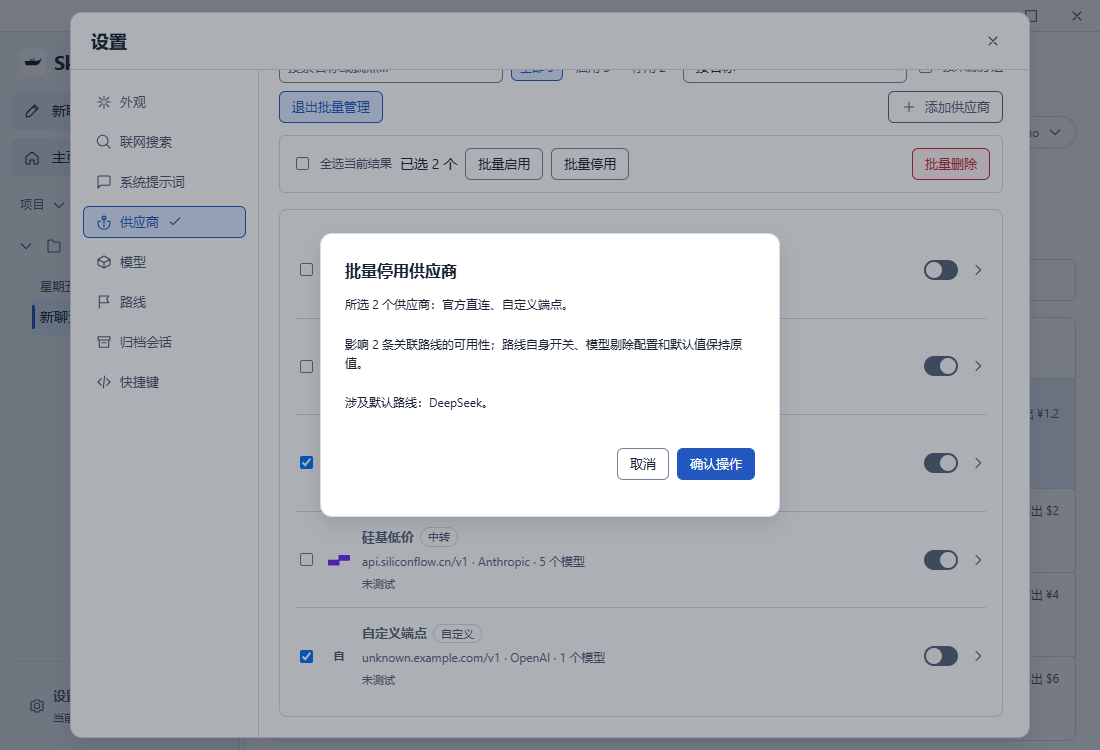
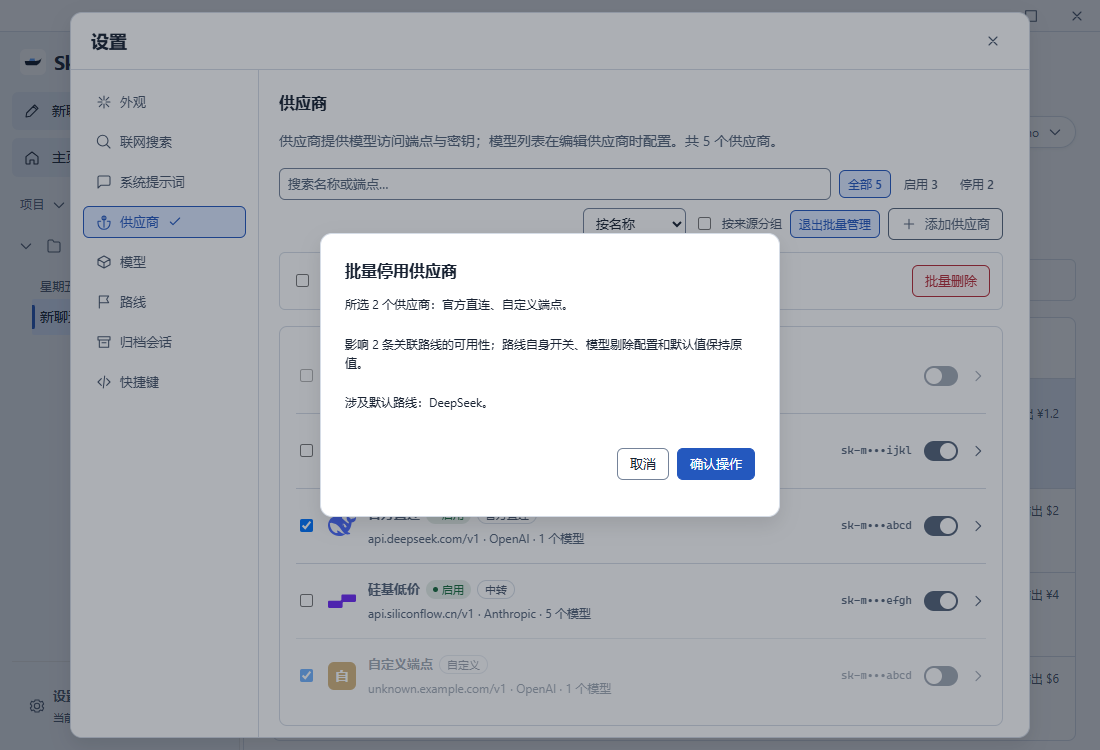
调整样式

diff --git a/src/index.css b/src/index.css
@@ -437,10 +437,11 @@ details[open] > summary .disclosure { transform: rotate(90deg); }
 .resize-separator:hover::after, .resize-separator:focus-visible::after, .resize-separator.dragging::after { left: 2px; width: 3px; background: var(--accent); }
 .resize-separator:focus-visible { outline: none; }
 .archive-sessions { display: flex; flex-direction: column; min-height: 0; height: 100%; }
-.archive-search { display: flex; align-items: center; gap: 8px; flex: none; margin: 0 0 var(--space-3); padding: 7px 10px; border: 1px solid var(--border); border-radius: var(--radius-sm); color: var(--muted); }
+.archive-search { display: flex; align-items: center; gap: 8px; flex: none; margin: 0 0 var(--space-3); padding: 7px 10px; border: 1px solid var(--border); border-radius: var(--radius-md); color: var(--muted); }
 .archive-search input { flex: 1; min-width: 0; border: 0; background: transparent; color: var(--text); outline: none; }
-.archive-session-list { min-height: 0; overflow: auto; }
-.archive-session-row { display: flex; align-items: center; gap: var(--space-3); min-width: 0; padding: 10px 4px; border-bottom: 1px solid var(--border); }
+.archive-session-list { min-height: 0; overflow: auto; padding: 0 var(--space-4); border: 1px solid var(--border); border-radius: var(--radius-lg); background: var(--panel-2); }
+.archive-session-row { display: flex; align-items: center; gap: var(--space-3); min-width: 0; padding: 11px 0; border-top: 1px solid var(--border); }
+.archive-session-row:first-of-type { border-top: 0; }
 .archive-session-open { display: flex; flex: 1; min-width: 0; flex-direction: column; align-items: flex-start; gap: 2px; padding: 2px 6px; border: 0; background: transparent; text-align: left; }
 .archive-session-open strong, .archive-session-open span, .archive-session-open time { max-width: 100%; overflow: hidden; text-overflow: ellipsis; white-space: nowrap; }
 .archive-session-open strong { color: var(--text); font-weight: var(--font-weight-medium); }
@@ -731,7 +732,7 @@ details[open] > summary .disclosure { transform: rotate(90deg); }
 .provider-tag { padding: 0 7px; border: 1px solid var(--border); border-radius: var(--radius-full); color: var(--secondary); font-size: var(--font-size-xs); }
 .provider-tag.muted-tag { color: var(--muted); }
 .provider-toggle { display: inline-flex; align-items: center; }
-.provider-toggle.inline { display: flex; gap: 8px; font-size: var(--font-size-sm); color: var(--secondary); }
+.provider-toggle.inline { display: flex; flex: none; gap: 8px; font-size: var(--font-size-sm); color: var(--secondary); white-space: nowrap; }
 .family-footer { margin-top: var(--space-4); }
 .field-with-action { display: flex; align-items: center; gap: 8px; }
 .field-with-action input { flex: 1; }
@@ -863,7 +864,12 @@ details[open] > summary .disclosure { transform: rotate(90deg); }
 
 /* Provider preset catalog (add-provider sheet) */
 .provider-mark { flex: none; display: inline-block; }
-span.provider-mark.generic { display: inline-flex; align-items: center; justify-content: center; border-radius: var(--radius-sm); background: var(--panel-2); color: var(--secondary); font-weight: var(--font-weight-semibold); }
+span.provider-mark.generic { display: inline-flex; align-items: center; justify-content: center; border-radius: var(--radius-md); background: var(--panel-2); color: var(--secondary); font-weight: var(--font-weight-semibold); }
+/* Settings list primitives: status dot badge and key fingerprint, shared by provider/model/route rows. */
+.settings-badge { display: inline-flex; align-items: center; gap: 4px; padding: 1px 7px; border-radius: var(--radius-full); font-size: var(--font-size-xs); white-space: nowrap; }
+.settings-badge::before { content: ""; width: 5px; height: 5px; border-radius: var(--radius-full); background: currentColor; }
+.settings-badge[data-tone=success] { color: var(--color-success); background: color-mix(in srgb, var(--color-success) 12%, transparent); }
+.settings-key-fingerprint { font-family: var(--font-family-mono); font-size: var(--font-size-xs); color: var(--muted); white-space: nowrap; }
 .provider-sheet-body { margin-top: var(--space-3); }
 .preset-kind-title { display: flex; align-items: baseline; gap: 8px; margin: var(--space-4) 0 var(--space-2); font-size: var(--font-size-base); font-weight: var(--font-weight-semibold); }
 .preset-kind-title:first-child { margin-top: 0; }
@@ -928,6 +934,8 @@ span.provider-mark.generic { display: inline-flex; align-items: center; justify-
 .settings-toolbar { display: flex; flex-wrap: wrap; align-items: center; gap: var(--space-2); margin-block: var(--space-3); }
 .settings-toolbar > .ui-input { flex: 1 1 200px; min-width: 0; }
 .settings-toolbar > .ui-button:last-child { margin-left: auto; }
+.settings-toolbar-extras { display: flex; flex-wrap: nowrap; align-items: center; gap: var(--space-2); margin-left: auto; }
+.settings-toolbar-extras > .ui-button:last-child { margin-left: 0; }
 .settings-filter-group { display: flex; flex-wrap: wrap; gap: var(--space-1); }
 .settings-filter-group .ui-button[aria-pressed=true] { background: var(--selected); color: var(--accent); }
 .settings-advanced { padding-block: var(--space-3); border-block: 1px solid var(--border); margin-block: var(--space-3); }
@@ -970,8 +978,9 @@ span.provider-mark.generic { display: inline-flex; align-items: center; justify-
 .provider-row-meta { display: flex; align-items: center; gap: var(--space-1); min-width: 0; color: var(--muted); font-size: var(--font-size-sm); }
 .provider-row-endpoint { min-width: 0; overflow: hidden; text-overflow: ellipsis; white-space: nowrap; }
 .provider-row-count { flex-shrink: 0; white-space: nowrap; }
-.provider-row-side { display: grid; grid-template-columns: 34px 16px; align-items: center; gap: 12px; color: var(--muted); }
+.provider-row-side { display: flex; align-items: center; gap: var(--space-3); color: var(--muted); }
 .provider-row-side .switch { margin: 0; }
+.provider-relay-row.disabled { opacity: 0.55; }
 .provider-key { display: inline-flex; align-items: center; gap: 5px; min-width: 0; min-height: 20px; white-space: nowrap; color: var(--color-success); font-size: var(--font-size-sm); font-family: var(--mono, monospace); }
 .provider-add { margin-top: var(--space-3); }
 .editor-actions { justify-content: flex-start; align-items: center; }
@@ -980,8 +989,8 @@ span.provider-mark.generic { display: inline-flex; align-items: center; justify-
 .switch { position: relative; display: inline-block; width: 34px; height: 20px; flex: none; }
 .switch input { position: absolute; inset: 0; width: 100%; height: 100%; margin: 0; opacity: 0; z-index: 1; cursor: pointer; }
 .switch .slider { position: absolute; inset: 0; border-radius: var(--radius-full); background: var(--border); transition: background-color var(--transition-fast) ease; pointer-events: none; }
-.switch .slider::after { content: ""; position: absolute; top: 2px; left: 2px; width: 16px; height: 16px; border-radius: var(--radius-full); background: var(--bg); box-shadow: 0 1px 2px var(--shadow-color); transition: transform var(--transition-fast) ease; }
-.switch input:checked + .slider { background: var(--color-success); }
+.switch .slider::after { content: ""; position: absolute; top: 2px; left: 2px; width: 16px; height: 16px; border-radius: var(--radius-full); background: var(--action-foreground); box-shadow: 0 1px 2px var(--shadow-color); transition: transform var(--transition-fast) ease; }
+.switch input:checked + .slider { background: var(--action); }
 .switch input:checked + .slider::after { transform: translateX(14px); }
 .switch input:disabled { cursor: default; clip-path: inset(50%); }
 .switch input:disabled + .slider { background: var(--disabled-text); }

diff --git a/src/components/ProvidersSettings.tsx b/src/components/ProvidersSettings.tsx
@@ -23,8 +23,8 @@ import { Button, IconButton, Input, Select, Tooltip } from "./ui";
 
 const openLink = (url: string) => void invoke("open_url", { url }).catch((error) => console.error(String(error)));
 
-/** Saved-key fingerprint, shown only inside the advanced editor options. */
-const keyHint = (key: string) => (key.length > 8 ? `${key.slice(0, 4)}…${key.slice(-4)}` : maskKey(key));
+/** Saved-key fingerprint, shown in list rows and inside the advanced editor options. */
+const keyHint = (key: string) => (key.length > 8 ? `${key.slice(0, 4)}•••${key.slice(-4)}` : maskKey(key));
 
 type Draft =
 	| { kind: "pick" }
@@ -618,10 +618,12 @@ export const ProvidersSettingsContent = forwardRef<SettingsEditorHandle, Provide
 				<div className="settings-toolbar" role="group" aria-label="供应商筛选">
 					<Input aria-label="搜索已配置供应商" placeholder="搜索名称或端点…" value={listQuery} onChange={(event) => setListQuery(event.target.value)} />
 					<div className="settings-filter-group">{([ ["all", "全部"], ["enabled", "启用"], ["disabled", "停用"] ] as const).map(([value, label]) => <Button key={value} size="compact" variant="ghost" aria-pressed={statusFilter === value} onClick={() => setStatusFilter(value)}>{label} {matchedRelays.filter((relay) => value === "all" || relay.enabled === (value === "enabled")).length}</Button>)}</div>
-					<Select aria-label="供应商显示排序" value={view.sort} disabled={pending} onChange={(event) => setView({ ...view, sort: event.target.value as ProviderSort })}><option value="config">配置原顺序</option><option value="name">按名称</option><option value="recent">最近使用</option><option value="status">按状态</option></Select>
-					<label className="provider-toggle inline"><input type="checkbox" checked={view.grouped} disabled={pending} onChange={(event) => setView({ ...view, grouped: event.target.checked })} />按来源分组</label>
-					<Button disabled={pending} aria-pressed={batch} onClick={() => { setBatch(!batch); setSelected([]); }}>{batch ? "退出批量管理" : "批量管理"}</Button>
-					<Button onClick={openPick} disabled={pending || batch}><Icon name="plus" size={14} />添加供应商</Button>
+					<div className="settings-toolbar-extras">
+						<Select aria-label="供应商显示排序" value={view.sort} disabled={pending} onChange={(event) => setView({ ...view, sort: event.target.value as ProviderSort })}><option value="config">配置原顺序</option><option value="name">按名称</option><option value="recent">最近使用</option><option value="status">按状态</option></Select>
+						<label className="provider-toggle inline"><input type="checkbox" checked={view.grouped} disabled={pending} onChange={(event) => setView({ ...view, grouped: event.target.checked })} />按来源分组</label>
+						<Button size="compact" variant="ghost" disabled={pending} aria-pressed={batch} onClick={() => { setBatch(!batch); setSelected([]); }}>{batch ? "退出批量管理" : "批量管理"}</Button>
+						<Button variant="primary" onClick={openPick} disabled={pending || batch}><Icon name="plus" size={14} />添加供应商</Button>
+					</div>
 				</div>
 				{batch && <div className="settings-toolbar settings-batch-bar" role="group" aria-label="供应商批量操作">
 					<label className="provider-toggle inline"><input type="checkbox" aria-label="全选当前结果" checked={!!shownRelays.length && shownRelays.every((relay) => selected.includes(relay.id))} disabled={pending || !shownRelays.length} onChange={(event) => setSelected(event.target.checked ? shownRelays.map((relay) => relay.id) : [])} />全选当前结果</label><span role="status">已选 {selected.length} 个</span>
@@ -633,17 +635,19 @@ export const ProvidersSettingsContent = forwardRef<SettingsEditorHandle, Provide
 					{shownRelays.map((relay, index) => {
 						const preset = matchPreset(relay.baseUrl);
 						const protocol = RELAY_PROTOCOLS.find((item) => item.id === (relay.protocol ?? "openai"));
+						const lastTest = latestSettingsTest(metadata.tests, relay.id);
+						const testHint = !lastTest ? "" : lastTest.ok ? ` · 最近测试 ${lastTest.latencyMs} ms` : " · 最近测试失败";
 						return <Fragment key={relay.id}>{view.grouped && (index === 0 || providerSourceLabel(shownRelays[index - 1].baseUrl) !== providerSourceLabel(relay.baseUrl)) && <h3 className="settings-source-heading">{providerSourceLabel(relay.baseUrl)}</h3>}<div className={`provider-row provider-relay-row ${batch ? "is-selecting" : ""} ${relay.enabled ? "" : "disabled"}`}>
 							{batch && <input type="checkbox" aria-label={`选择 ${relay.name}`} checked={selected.includes(relay.id)} disabled={pending} onChange={(event) => setSelected((ids) => event.target.checked ? [...ids, relay.id] : ids.filter((id) => id !== relay.id))} />}
 							<button type="button" className="provider-relay-btn" onClick={() => openRelay(relay, preset)} disabled={pending || batch} aria-label={`编辑 ${relay.name}`}>
-								<ProviderIcon id={preset?.id ?? ""} name={relay.name} size={22} />
+								<ProviderIcon id={preset?.id ?? ""} name={relay.name} size={28} />
 								<span className="provider-row-text">
-									<span className="provider-row-title"><strong title={relay.name}>{relay.name}</strong><span className="provider-tag">{providerSourceLabel(relay.baseUrl)}</span></span>
-									<small className="provider-row-meta"><span className="provider-row-endpoint" title={maskBaseUrl(relay.baseUrl)}>{maskBaseUrl(relay.baseUrl)}</span><span className="provider-row-count">· {protocol?.label ?? "OpenAI"} · {relayModelCount(relay.id) ? `${relayModelCount(relay.id)} 个模型` : "未配置模型"}</span></small>
-									<small className="settings-test-history" title="连接测试请求耗时；历史结果不代表当前在线">{settingsTestSummary(latestSettingsTest(metadata.tests, relay.id))}</small>
+									<span className="provider-row-title"><strong title={relay.name}>{relay.name}</strong>{relay.enabled && <span className="settings-badge" data-tone="success">启用</span>}<span className="provider-tag">{providerSourceLabel(relay.baseUrl)}</span></span>
+									<small className="provider-row-meta" title={settingsTestSummary(lastTest)}><span className="provider-row-endpoint" title={maskBaseUrl(relay.baseUrl)}>{maskBaseUrl(relay.baseUrl)}</span><span className="provider-row-count">· {protocol?.label ?? "OpenAI"} · {relayModelCount(relay.id) ? `${relayModelCount(relay.id)} 个模型` : "未配置模型"}{testHint}</span></small>
 								</span>
 							</button>
 							<div className="provider-row-side">
+								{relay.apiKey && <span className="settings-key-fingerprint" title="已保存密钥的指纹">{keyHint(relay.apiKey)}</span>}
 								<label className="switch" title={relay.enabled ? "停用" : "启用"}>
 									<input type="checkbox" checked={relay.enabled} disabled={pending || batch} onChange={(event) => { const enabled = event.target.checked; void mutate(() => toggleRelay(relay.id, enabled)); }} aria-label={`${relay.enabled ? "停用" : "启用"} ${relay.name}`} />
 									<span className="slider" />

diff --git a/src/components/ProviderIcon.tsx b/src/components/ProviderIcon.tsx
@@ -72,12 +72,21 @@ const MARKS: Record<string, Mark> = {
 	},
 };
 
+/** Deterministic tile colours for providers without a known mark. */
+const TILE_COLORS = ["#2458be", "#2e7d5b", "#7c5cd6", "#c0564f", "#b07818", "#0e7f8c"];
+const tileColor = (name: string) => {
+	let hash = 7;
+	for (const char of name) hash = (hash * 31 + (char.codePointAt(0) ?? 0)) | 0;
+	return TILE_COLORS[Math.abs(hash) % TILE_COLORS.length];
+};
+
 /** Renders a vendor mark, or a coloured initial tile for unknown providers. */
 export function ProviderIcon({ id, name, size = 20 }: { id: string; name?: string; size?: number }) {
 	const mark = MARKS[id];
 	if (!mark) {
-		const initial = (name ?? "?").trim().charAt(0).toUpperCase() || "?";
-		return <span className="provider-mark generic" style={{ width: size, height: size, fontSize: Math.round(size * 0.5) }} aria-hidden="true">{initial}</span>;
+		const label = (name ?? "?").trim();
+		const initial = label.charAt(0).toUpperCase() || "?";
+		return <span className="provider-mark generic" style={{ width: size, height: size, fontSize: Math.round(size * 0.5), background: tileColor(label), color: "#fff" }} aria-hidden="true">{initial}</span>;
 	}
 	return (
 		<svg className="provider-mark" width={size} height={size} viewBox="0 0 24 24" aria-hidden="true" focusable="false">
